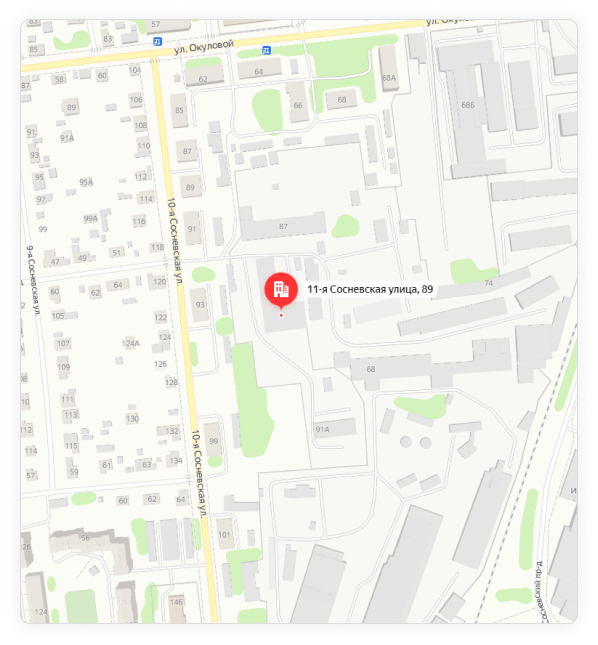
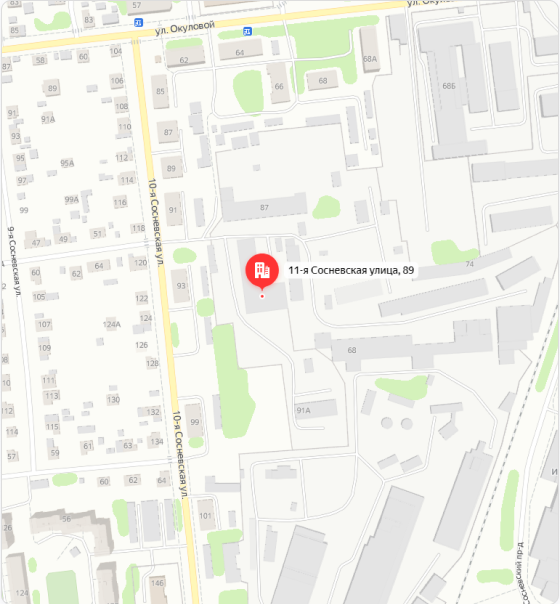
Add files via upload

diff --git a/index.html b/index.html
@@ -251,7 +251,7 @@
                             <h3 class="main_worker-fullname">Полиморфский Евгений Борисович</h3>
                             <p class="main_worker-status">Менеджер</p>
                             <div class="main_worker-phone-block">
-                                <img src="/logos/worker_phone.png" alt="phone logo" class="main_worker-phone-logo">
+                                <img src="./logos/worker_phone.png" alt="phone logo" class="main_worker-phone-logo">
                                 <p class="main_worker-phone">+7 (900) 000-00-00</p>
                             </div>
                             <div class="main_worker-email-block">
@@ -273,6 +273,66 @@
                             </div>
                         </li>
                     </ul>
+
+                    <ul class="main_workers-arr">
+                        <li class="main_worker-item">
+                            <img src="./images/worker_1.png" alt="worker photo" class="main_worker-photo">
+                            <h3 class="main_worker-fullname">Голубева Надежда Васильевна</h3>
+                            <p class="main_worker-status">Менеджер</p>
+                            <div class="main_worker-phone-block">
+                                <img src="./logos/worker_phone.png" alt="phone logo" class="main_worker-phone-logo">
+                                <p class="main_worker-phone">+7 (900) 000-00-00</p>
+                            </div>
+                            <div class="main_worker-email-block">
+                                <img src="./logos/worker_email.png" alt="email logo" class="main_worker-email-logo">
+                                <p class="main_worker-email">adresemail@mail.ru</p>
+                            </div>
+                        </li>
+                        <li class="main_worker-item">
+                            <img src="./images/worker_2.png" alt="worker photo" class="main_worker-photo">
+                            <h3 class="main_worker-fullname">Белолипецкий Андрей Николаевич</h3>
+                            <p class="main_worker-status">Менеджер</p>
+                            <div class="main_worker-phone-block">
+                                <img src="./logos/worker_phone.png" alt="phone logo" class="main_worker-phone-logo">
+                                <p class="main_worker-phone">+7 (900) 000-00-00</p>
+                            </div>
+                            <div class="main_worker-email-block">
+                                <img src="./logos/worker_email.png" alt="email logo" class="main_worker-email-logo">
+                                <p class="main_worker-email">adresemail@mail.ru</p>
+                            </div>
+                        </li>
+                        <li class="main_worker-item">
+                            <img src="./images/worker_3.png" alt="worker photo" class="main_worker-photo">
+                            <h3 class="main_worker-fullname">Полиморфский Евгений Борисович</h3>
+                            <p class="main_worker-status">Менеджер</p>
+                            <div class="main_worker-phone-block">
+                                <img src="./logos/worker_phone.png" alt="phone logo" class="main_worker-phone-logo">
+                                <p class="main_worker-phone">+7 (900) 000-00-00</p>
+                            </div>
+                            <div class="main_worker-email-block">
+                                <img src="./logos/worker_email.png" alt="email logo" class="main_worker-email-logo">
+                                <p class="main_worker-email">adresemail@mail.ru</p>
+                            </div>
+                        </li>
+                        <li class="main_worker-item">
+                            <img src="./images/worker_4.png" alt="worker photo" class="main_worker-photo">
+                            <h3 class="main_worker-fullname">Попова Юлия Сергеевна</h3>
+                            <p class="main_worker-status">Менеджер</p>
+                            <div class="main_worker-phone-block">
+                                <img src="./logos/worker_phone.png" alt="phone logo" class="main_worker-phone-logo">
+                                <p class="main_worker-phone">+7 (900) 000-00-00</p>
+                            </div>
+                            <div class="main_worker-email-block">
+                                <img src="./logos/worker_email.png" alt="email logo" class="main_worker-email-logo">
+                                <p class="main_worker-email">adresemail@mail.ru</p>
+                            </div>
+                        </li>
+                    </ul>
+
+                    <div class="main_slider_arrow">
+                        <img src="./logos/arrow_left.png" alt="arrow left" class="left-arrow">
+                        <img src="./logos/arrow_right.png" alt="arrow right" class="right-arrow">
+                    </div>
             </div>
         </div>
         </section>

diff --git a/js/index.js b/js/index.js
@@ -1,6 +1,11 @@
-const burgerButton = document.querySelector('.header_burger-menu');
-const burgerMenu = document.querySelector('.burger_main-block');
-const closeBtn = document.querySelector('.close-btn');
+const burgerButton = document.querySelector('.header_burger-menu'),
+    burgerMenu = document.querySelector('.burger_main-block'),
+    closeBtn = document.querySelector('.close-btn');
+
+const arrowLeft = document.querySelector('.left-arrow'),
+    arrowRight = document.querySelector('.right-arrow'),
+    workerList = document.querySelectorAll('.main_workers-arr'),
+    workerItem = document.querySelectorAll('.main_worker-item')
 
 burgerButton.addEventListener('mouseup', e => {
     e.preventDefault();
@@ -10,4 +15,38 @@ burgerButton.addEventListener('mouseup', e => {
 closeBtn.addEventListener('mouseup', e => {
     e.preventDefault();
     burgerMenu.style.display = 'none';
+});
+
+let slyderCounter = 1;
+
+function slyderCardFun() {
+
+    if (slyderCounter > workerItem.length) {
+        slyderCounter = 1;
+    }
+
+    if (slyderCounter < 1) {
+        slyderCounter = workerItem.length;
+    }
+
+    workerItem.forEach(item => {
+        return item.style.display = "none"
+    });
+
+    workerItem[slyderCounter - 1].style.display = 'block';
+}
+
+slyderCardFun(slyderCounter);
+
+
+arrowLeft.addEventListener("click", (e) => {
+    e.preventDefault();
+    slyderCounter += 1;
+    slyderCardFun();
+})
+
+arrowRight.addEventListener("click", (e) => {
+    e.preventDefault();
+    slyderCounter -= 1;
+    slyderCardFun();
 })

diff --git a/index.css b/index.css
@@ -315,7 +315,7 @@ main{
 }
 
 .main_address-subinfo{
-    margin-top: 8px;
+    margin-top: 2px;
     font-size: 17px;
     font-weight: 600;
     line-height: 23px;
@@ -337,7 +337,7 @@ main{
 }
 
 .main_block-info-map{
-    padding: 34px;
+    padding: 35px;
     box-shadow: 0px 1px 20px 0px #1A27561A;
     border-radius: 10px;
     height: 605px;
@@ -424,7 +424,19 @@ main{
     justify-content: space-between;
 }
 
+.main_workers-arr{
+    margin-top: 35px;
+    display: none;
+    list-style-type:none;
+    align-items: center;
+    justify-content: space-between;
+}
+
 .main_worker-card{
+    width: 23.7%;
+}
+
+.main_worker-item{
     width: 23.7%;
 }
 
@@ -476,6 +488,11 @@ main{
     background-color: #F5F5F5;
 }
 
+.main_map{
+    margin-left: 15px;
+    width: 558px;
+}
+
 /* BURGER MENU */
 
 .header_burger-menu{
@@ -502,7 +519,12 @@ header{
     width: 40vw;
     position:fixed;
     background-color: #F5F5F5;
+    transform: translateY(-150%);
+    animation: ani 0.7s forwards;
 }
+@keyframes ani {
+    100% {transform: translateX(0);}
+  }
 
 .burger_phone-block{
     display: flex;
@@ -534,6 +556,7 @@ header{
 
 .close-btn{
     width: 10%;
+    animation: anis 0.7s forwards
 }
 
 .burger_link-block{
@@ -546,4 +569,10 @@ header{
 .burger-link-marg{
     margin-top: 20px;
     margin-bottom: 20px;
+}
+
+.main_slider_arrow{
+    display: none;
+    align-items: center;
+    justify-content: space-evenly;
 }

diff --git a/adaptive.css b/adaptive.css
@@ -140,7 +140,7 @@
     }
 
     .main_map{
-        width: 80%;
+        margin: 0 0 15px 0;
     }
 
     .main_section-map {
@@ -226,14 +226,17 @@
         align-items: flex-start;
     }
 
+    .address-line {
+        border: none;
+        border-top: 1px solid #e2e2e2;
+        width: 20px;
+        height: 0px;
+    }
+
     .main_address-item {
         display: flex;
         align-items: center;
         margin-top: 20px;
-    }
-
-    .address-line {
-        height: 15px;
     }
 
     .main_workers-list {
@@ -255,8 +258,17 @@
         margin-bottom: 20px;
     }
 
+    .main_worker-item{
+        width: 100%;
+        margin-bottom: 20px;
+    }
+
     .main_section-workers {
         padding: 60px 0 82px;
+    }
+
+    .main_map{
+        width: 100%;
     }
 }
 
@@ -280,6 +292,13 @@
         justify-content: center;
     }
 
+    .main_workers-arr {
+        grid-template-columns: repeat(1, 70%);
+        justify-content: center;
+        display: grid;
+        justify-content: center;
+    }
+
     .header_search {
         display: none;
     }
@@ -291,6 +310,18 @@
     .header_banner {
         padding: 22px 30px;
     }
+
+    .main_slider_arrow{
+        display: flex;
+    }
+
+    .main_workers-list {
+        display: none;
+    }
+
+    /* .main_worker-item {
+        display: none;
+    } */
 }
 
 @media(max-width: 540px) {
